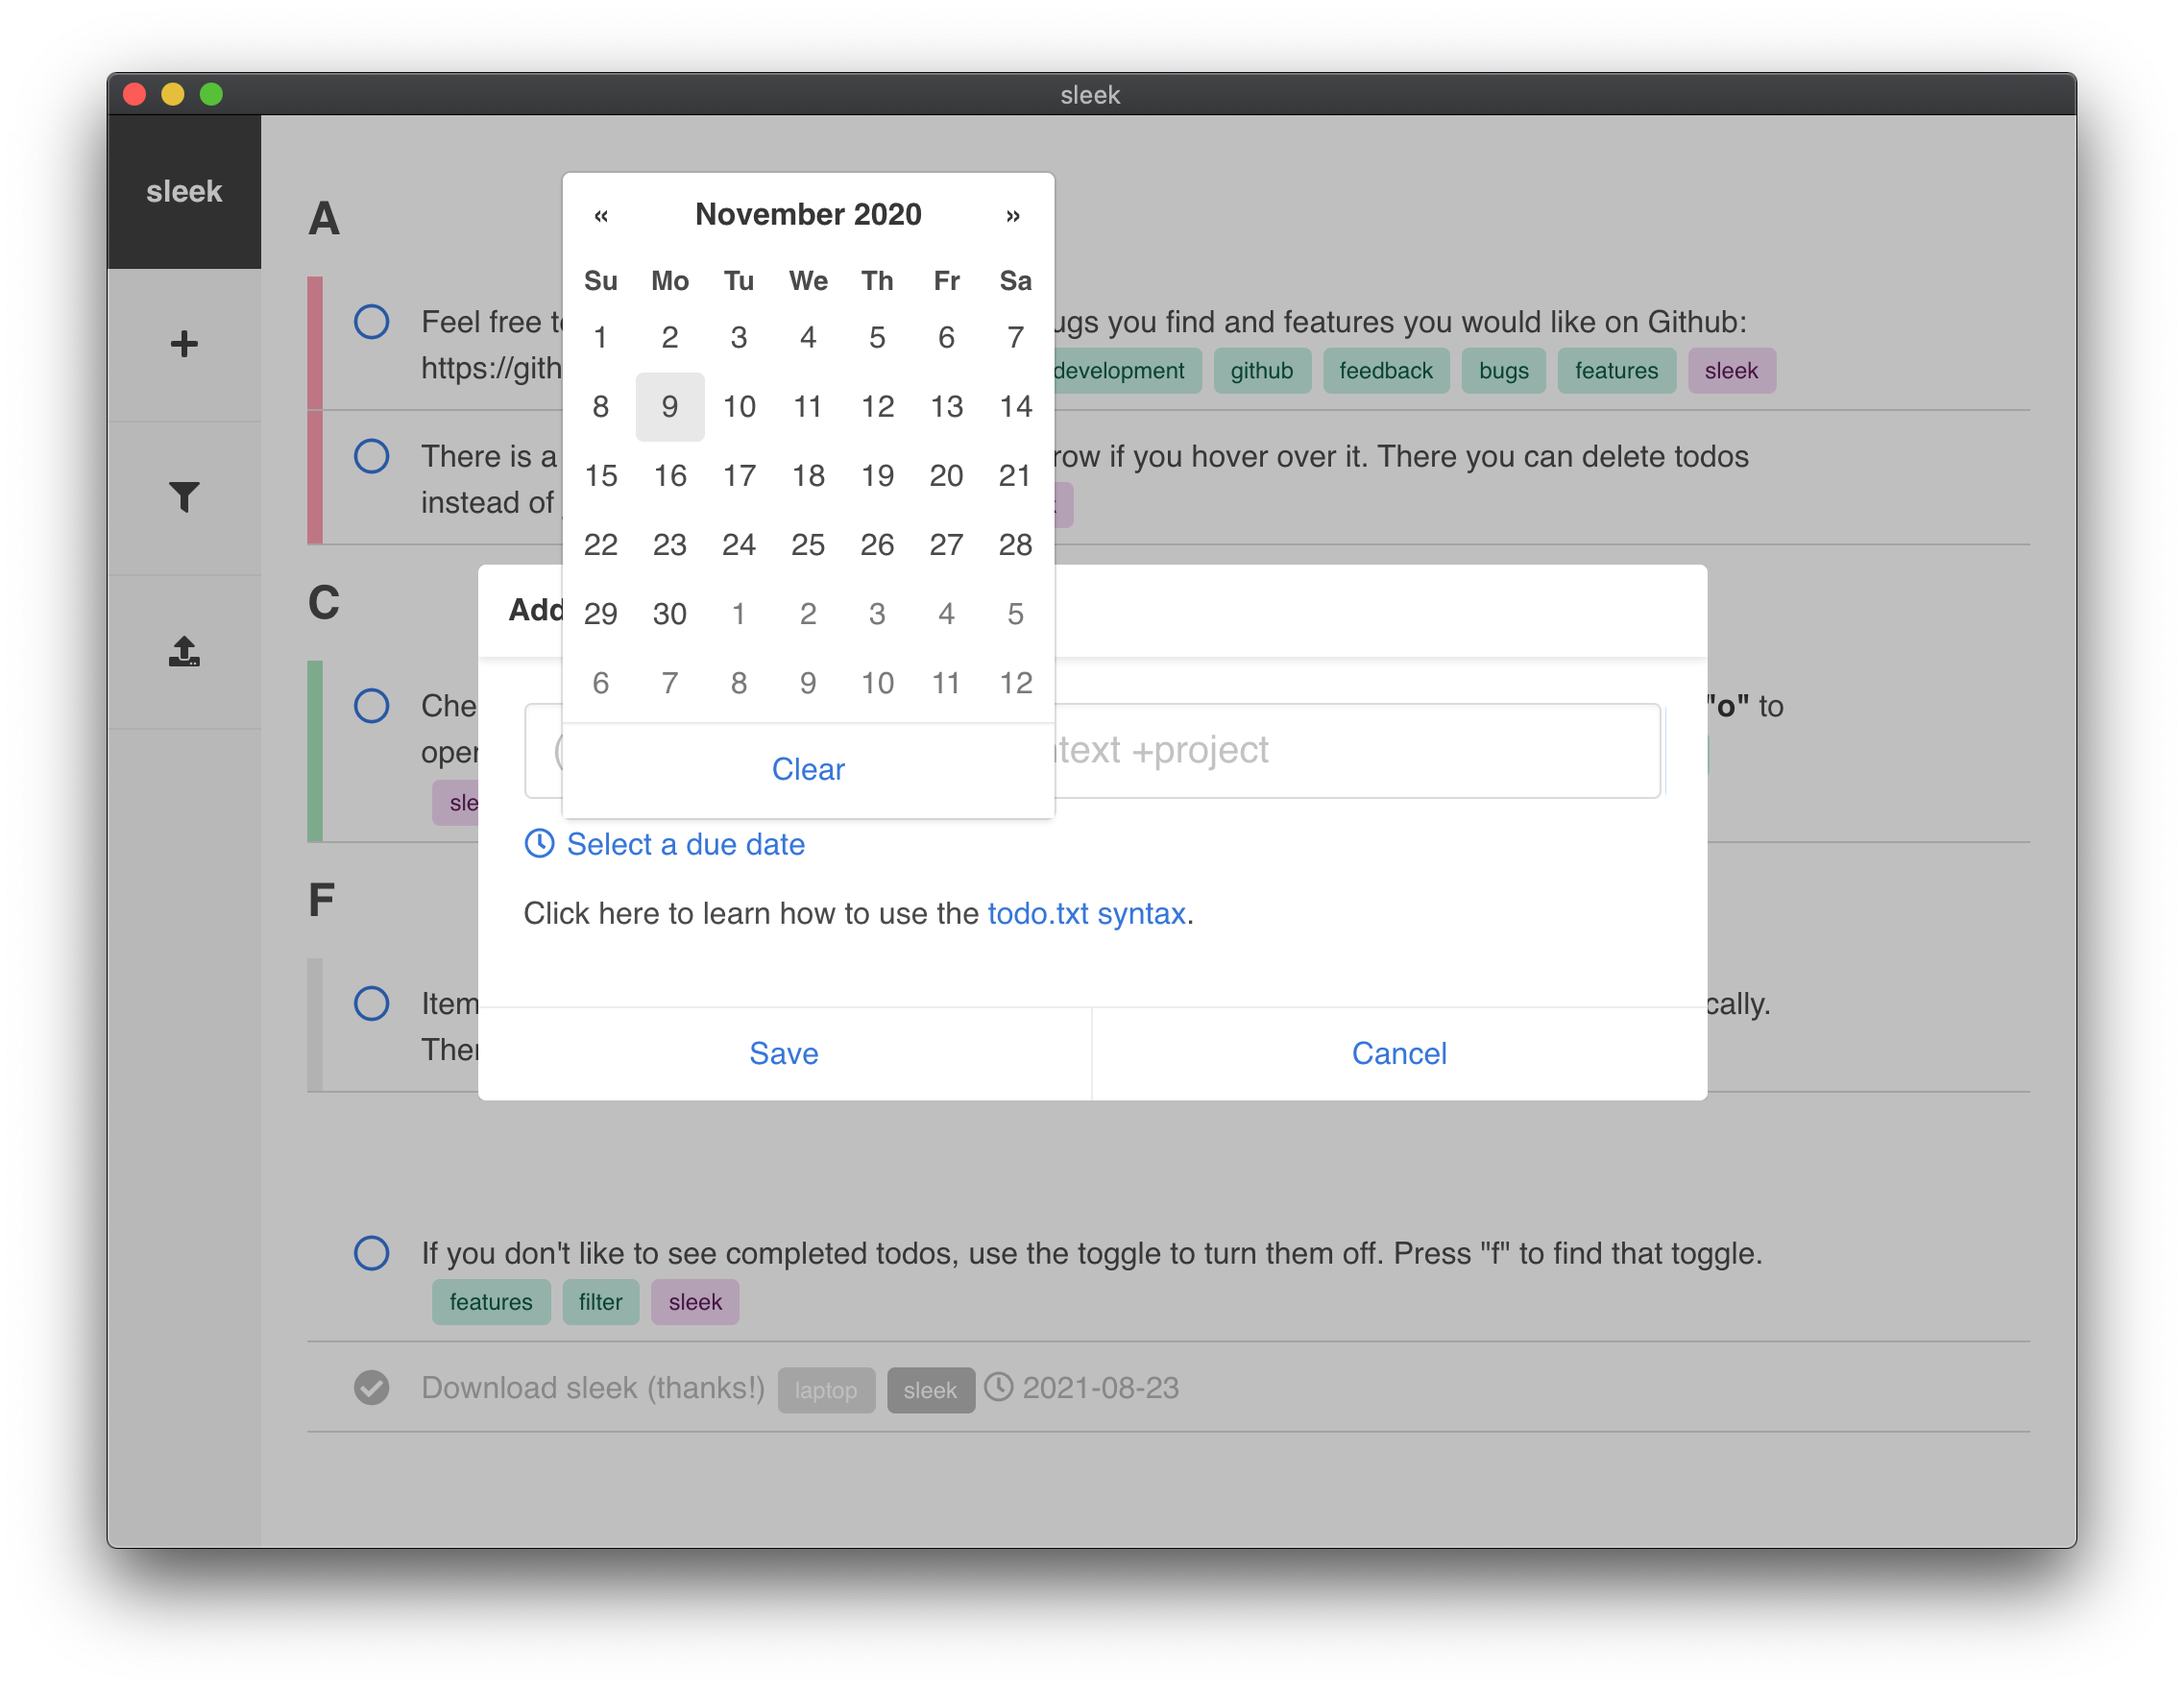
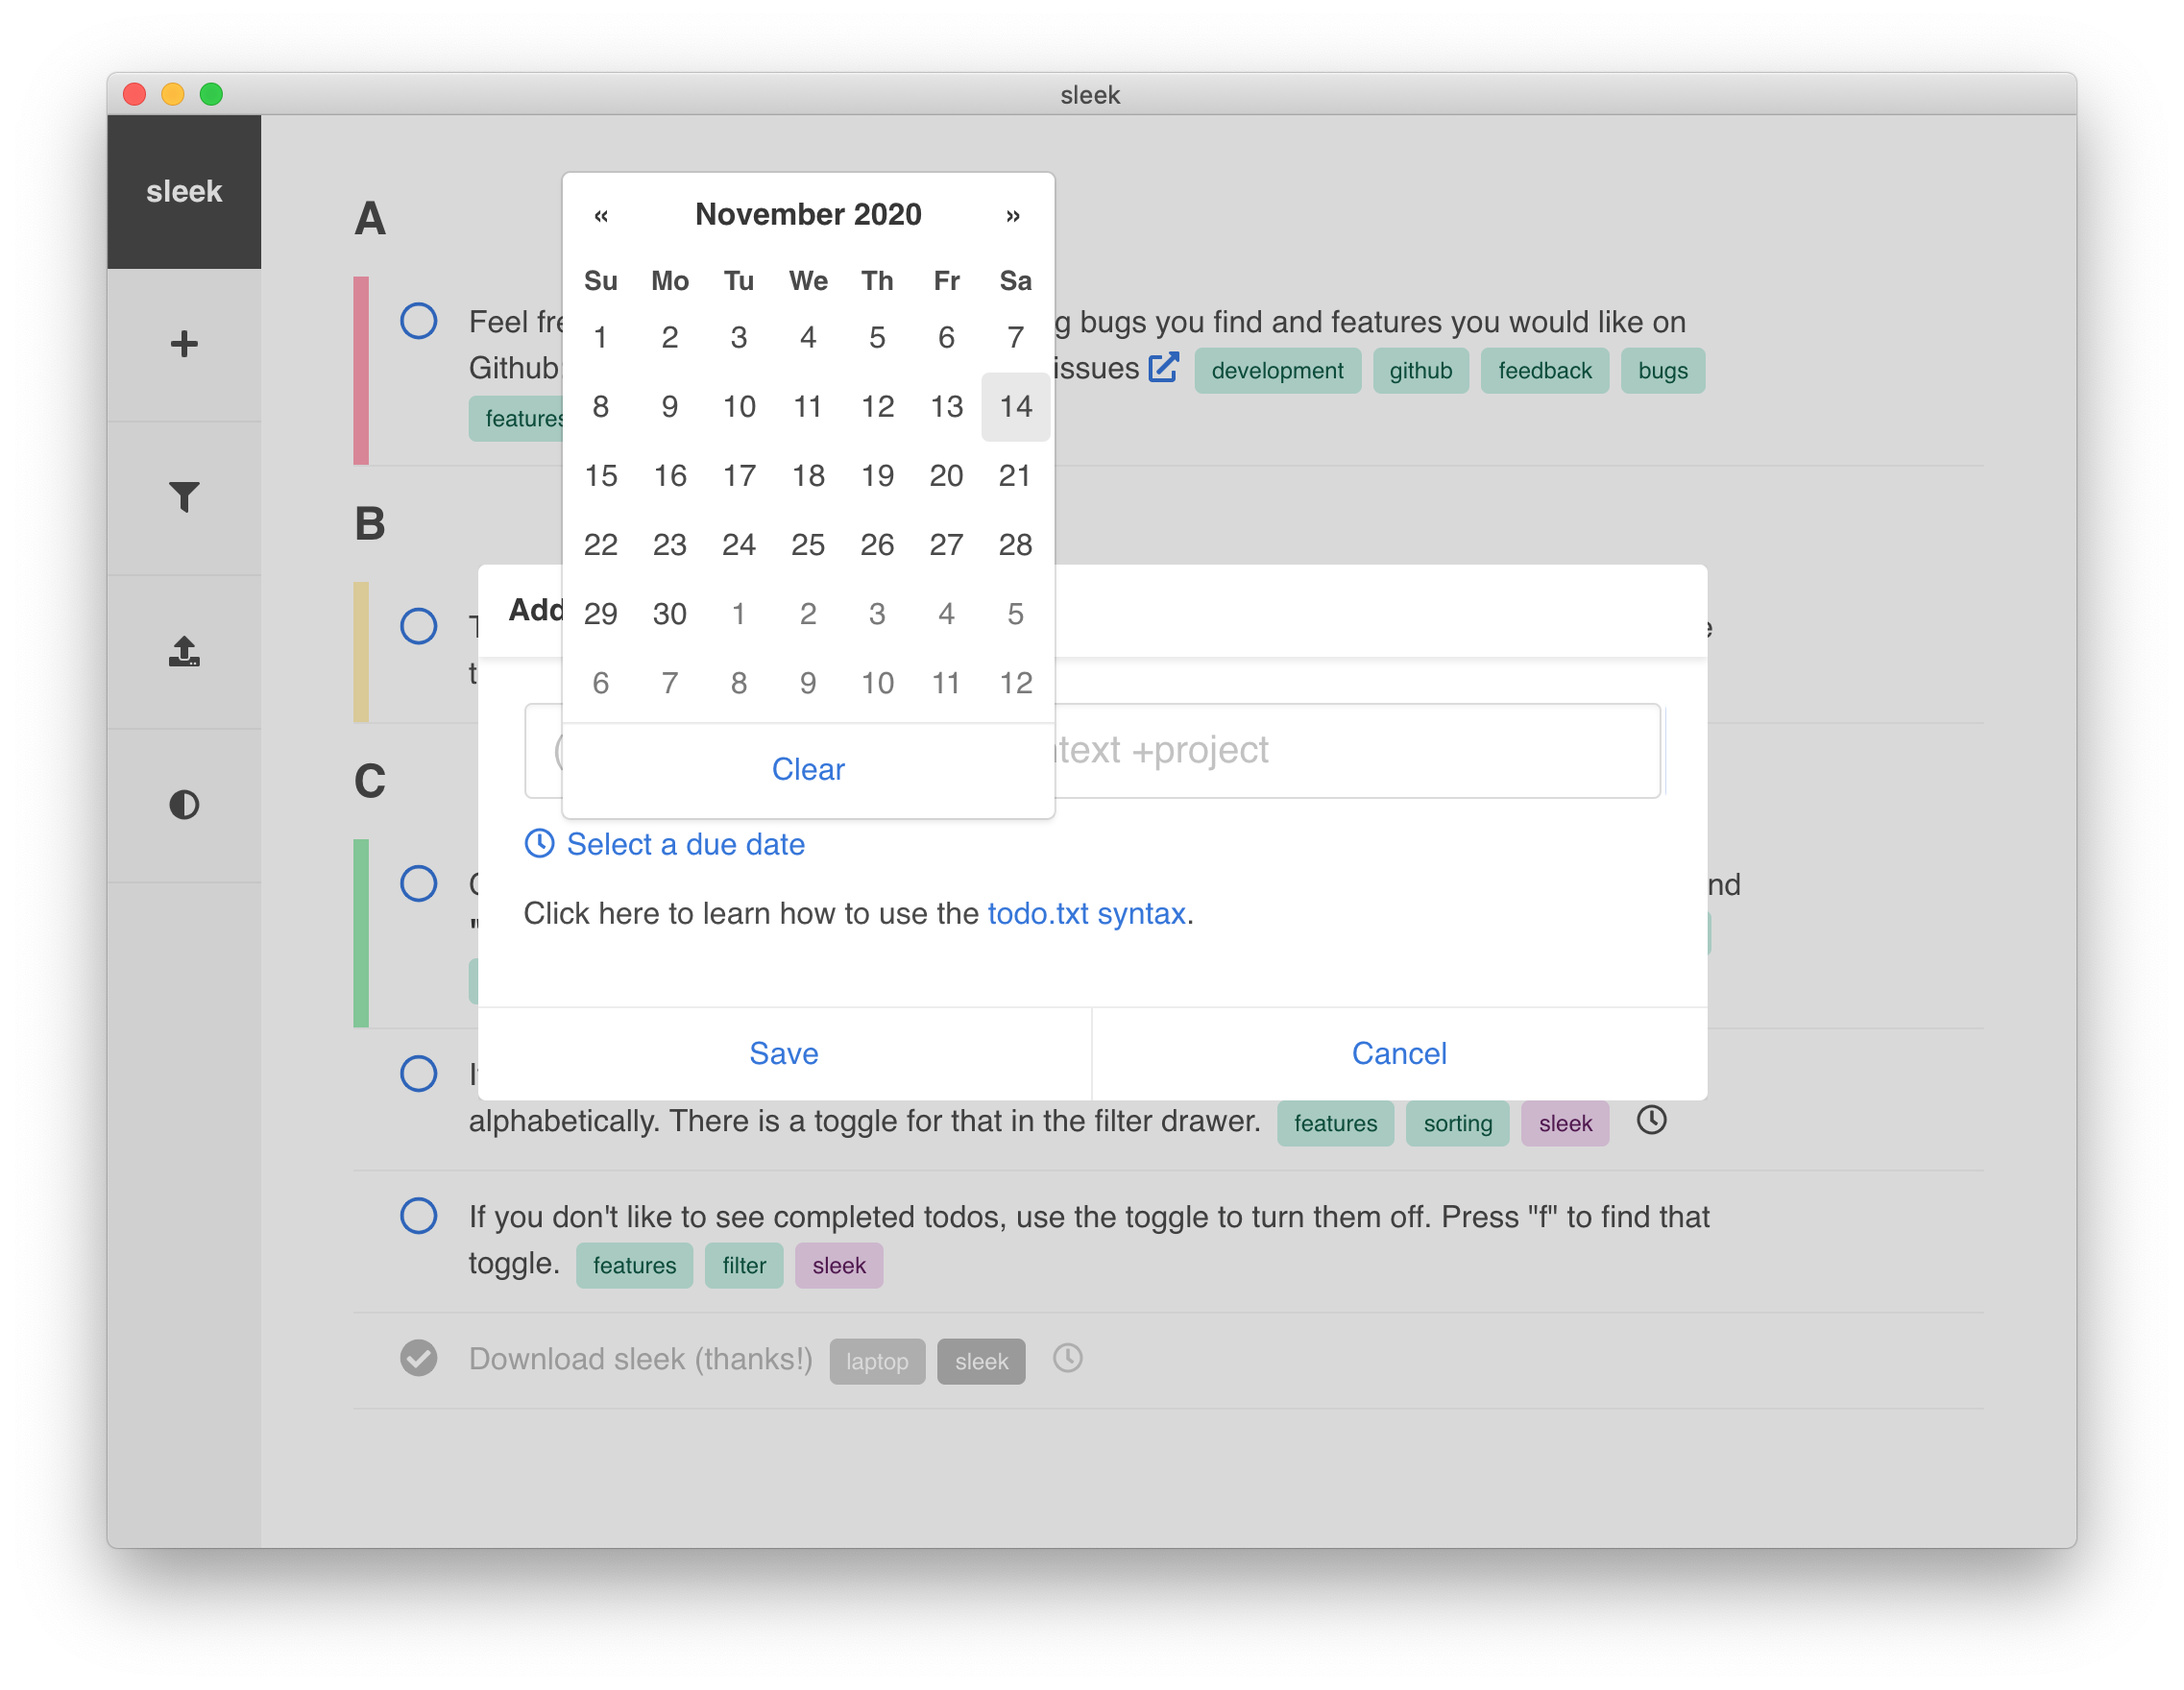
updated readme.md and screenshots

diff --git a/src/js/render.js b/src/js/render.js
@@ -496,6 +496,12 @@ function openFile() {
       }).catch(error => {
         console.log(error);
       });
+      // start the file watcher
+      startFileWatcher().then(response => {
+        console.log(response);
+      }).catch(error => {
+        console.log(error);
+      });
     }
   }).catch(err => {
       console.log("Error: " + err)
@@ -534,6 +540,12 @@ function createFile(showDialog, overwriteFile) {
                 store.set("pathToFile", pathToFile);
                 // pass path and filename on, to extract and parse the raw data to objects
                 parseDataFromFile(pathToFile).then(response => {
+                  console.log(response);
+                }).catch(error => {
+                  console.log(error);
+                });
+                // start the file watcher
+                startFileWatcher().then(response => {
                   console.log(response);
                 }).catch(error => {
                   console.log(error);
@@ -1180,14 +1192,15 @@ window.onload = function () {
   console.log("Info: Path to file: " + pathToFile);
   // set theme
   if(selectedTheme) switchTheme(false)
-  // start the file watcher
-  startFileWatcher().then(response => {
+
+  // start parsing data
+  parseDataFromFile(pathToFile).then(response => {
     console.log(response);
   }).catch(error => {
     console.log(error);
   });
-  // start parsing data
-  parseDataFromFile(pathToFile).then(response => {
+  // start the file watcher
+  startFileWatcher().then(response => {
     console.log(response);
   }).catch(error => {
     console.log(error);

diff --git a/src/index.js b/src/index.js
@@ -93,7 +93,7 @@ const createWindow = () => {
           }
         },
         {
-          label: 'Show or hide completed todos',
+          label: 'Toggle completed todos',
           accelerator: 'CmdOrCtrl+h',
           click: function (item, focusedWindow) {
             mainWindow.webContents.executeJavaScript('showCompletedTodos()');

diff --git a/README.md b/README.md
@@ -35,13 +35,14 @@ You can find binaries for Windows, MacOS and Linux on the <a href="https://githu
 * [x] A basic tabindex is available
 * [x] Due date can be set using a datepicker
 * [x] Todos that include either contexts or projects or both can now be hidden (setting will be persisted)
+* [x] Dark theme
+* [x] File watcher rereads the file if it has been changed (by hand or any other todo.txt application)
 
 ### To be done
 * [ ] Extensive testing & bug fixing
 * [ ] Code refinement and better error handling
 * [ ] Multi language support
-* [ ] Implement a notification function for due dates
-* [ ] Dark theme
+* [ ] Notification function for due dates
 * [ ] Full text search
 * [ ] More visual guidance when adding new todos
 
